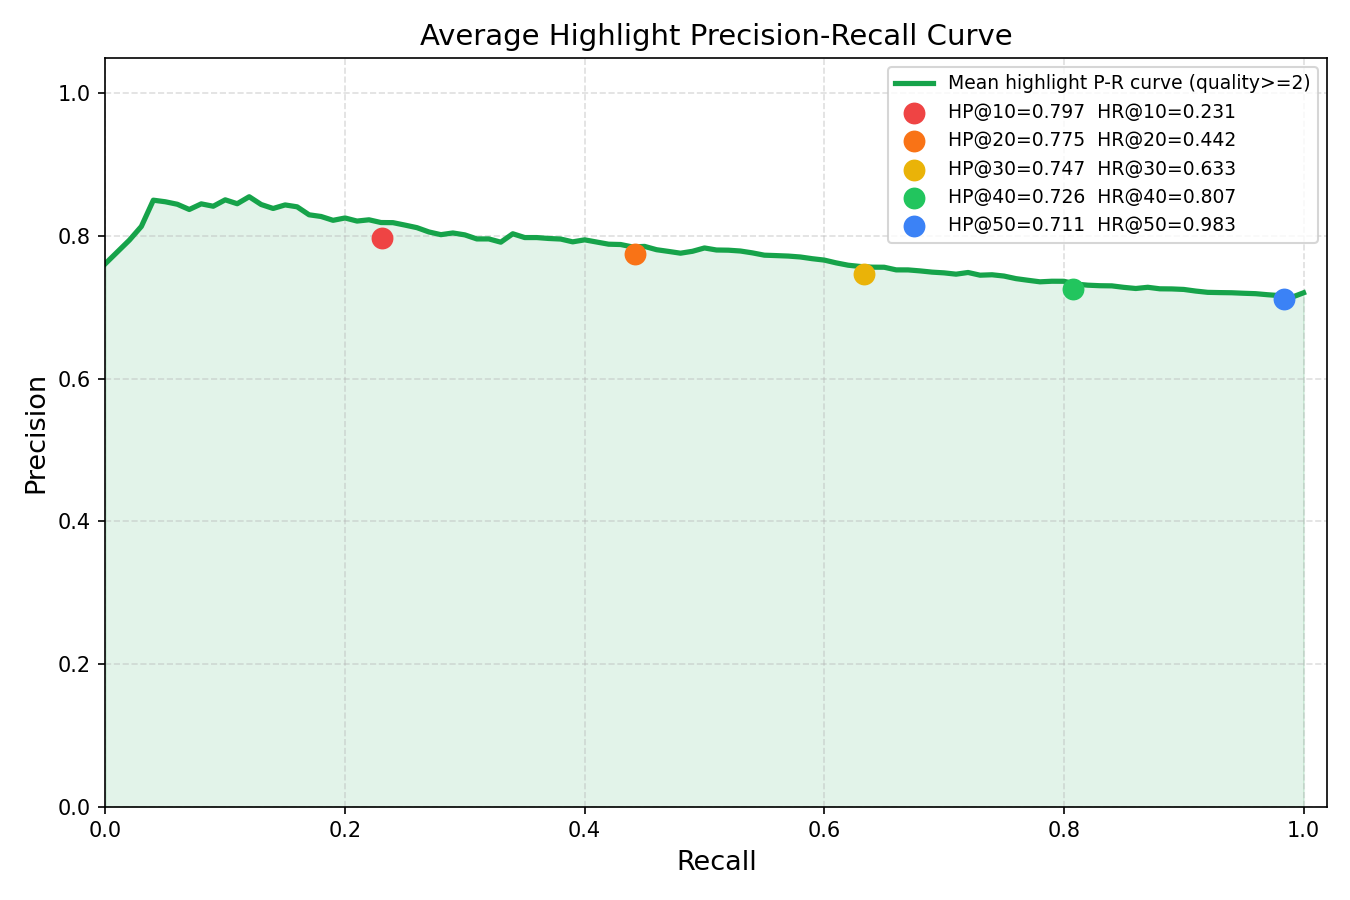
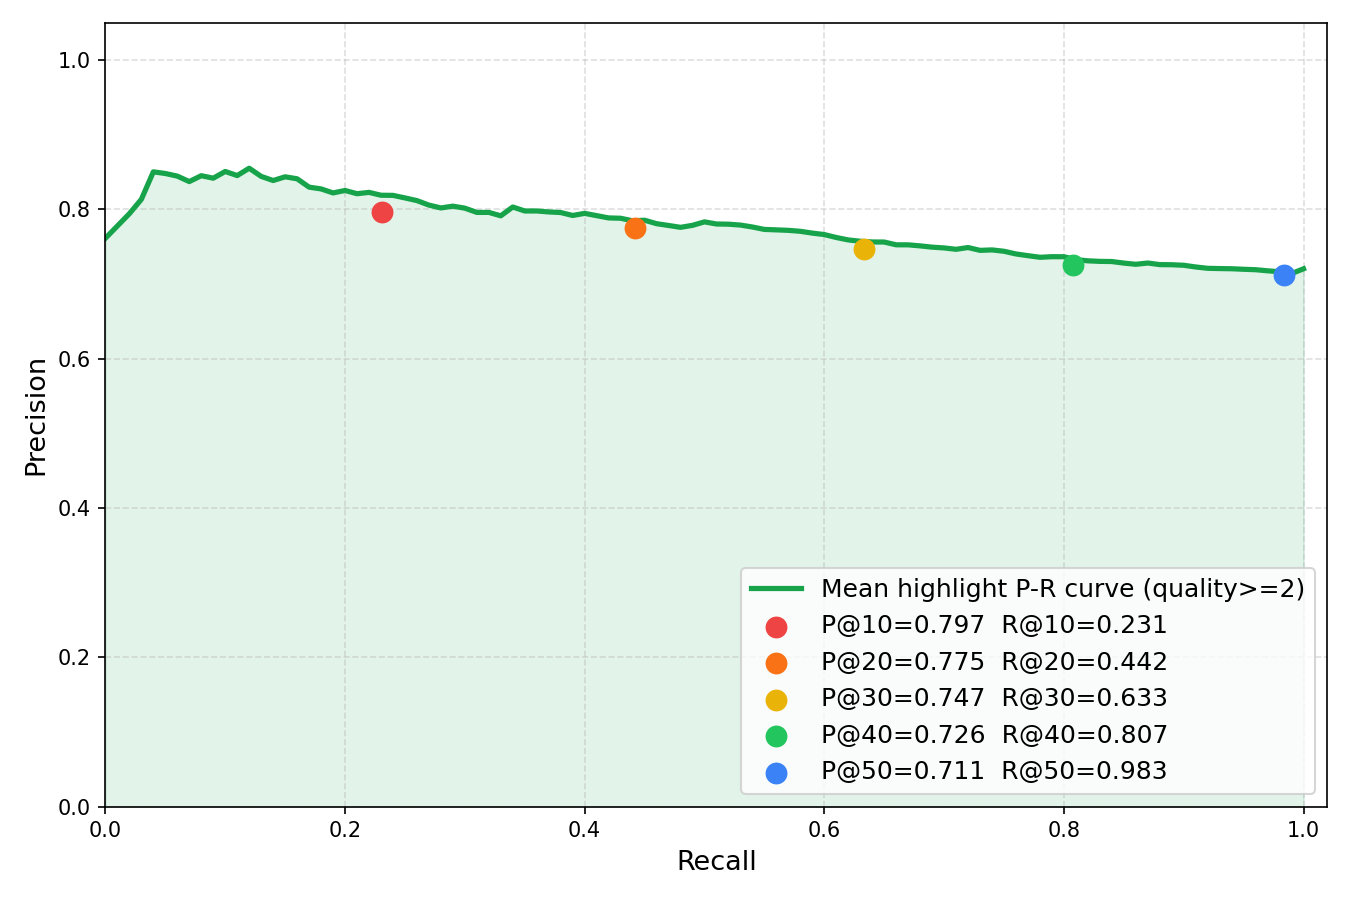
feat: improve pr curve plots for report

diff --git a/evaluation/evaluate_metrics.py b/evaluation/evaluate_metrics.py
@@ -30,12 +30,13 @@ import numpy as np
 # ── Configuration ─────────────────────────────────────────────────────────────
 
 ANNOTATED_FILE = "annotated_results.txt"  # change path if needed
-RELEVANCE_THRESHOLD = 2   # scores >= this are "relevant" for binary metrics
+RELEVANCE_THRESHOLD = 2  # scores >= this are "relevant" for binary metrics
 K_VALUES = [10, 20, 30, 40, 50]
 PER_QUERY_PLOT_DIR = "pr_curves_per_query"
 RES_FOLDER = "results"
 
 # ── 1. Parser ─────────────────────────────────────────────────────────────────
+
 
 def parse_annotated_file(filepath: str) -> dict[str, list[dict]]:
     """
@@ -62,7 +63,7 @@ def parse_annotated_file(filepath: str) -> dict[str, list[dict]]:
         # A query line is followed by a show name, then episode, then an integer (relevance).
         # We identify it by: non-empty line whose content is NOT a digit and
         # whose next non-empty lines form a (show, episode, score) triple.
-        if line and not re.match(r'^\d+$', line):
+        if line and not re.match(r"^\d+$", line):
             # Peek ahead to see if this looks like a query (next valid block has a score)
             j = i + 1
             while j < len(lines) and not lines[j].strip():
@@ -73,7 +74,11 @@ def parse_annotated_file(filepath: str) -> dict[str, list[dict]]:
             j3 = j2 + 1
             score_candidate = lines[j3].strip() if j3 < len(lines) else ""
 
-            if re.match(r'^[0-3]$', score_candidate) and show_candidate and episode_candidate:
+            if (
+                re.match(r"^[0-3]$", score_candidate)
+                and show_candidate
+                and episode_candidate
+            ):
                 # Save previous query
                 if current_query is not None:
                     data[current_query] = current_results
@@ -84,18 +89,20 @@ def parse_annotated_file(filepath: str) -> dict[str, list[dict]]:
                 continue
 
         # Detect a result block: show \n episode \n score
-        if line and current_query is not None and not re.match(r'^\d+$', line):
+        if line and current_query is not None and not re.match(r"^\d+$", line):
             show = line
             i += 1
             episode = lines[i].strip() if i < len(lines) else ""
             i += 1
             score_str = lines[i].strip() if i < len(lines) else ""
-            if re.match(r'^[0-3]$', score_str):
-                current_results.append({
-                    "show": show,
-                    "episode": episode,
-                    "relevance": int(score_str),
-                })
+            if re.match(r"^[0-3]$", score_str):
+                current_results.append(
+                    {
+                        "show": show,
+                        "episode": episode,
+                        "relevance": int(score_str),
+                    }
+                )
                 i += 1
                 continue
 
@@ -109,6 +116,7 @@ def parse_annotated_file(filepath: str) -> dict[str, list[dict]]:
 
 
 # ── 2. Binary metrics: Precision & Recall @K ──────────────────────────────────
+
 
 def is_relevant(score: int) -> bool:
     return score >= RELEVANCE_THRESHOLD
@@ -141,14 +149,14 @@ def compute_precision_recall(data: dict) -> dict:
 
     # For average P-R curve (at every rank position 1..50)
     all_precision_curves = []
-    all_recall_curves    = []
+    all_recall_curves = []
 
     for query, results in data.items():
         n = len(results)
         total_relevant = sum(1 for r in results if is_relevant(r["relevance"]))
 
         p_at_k = {k: precision_at_k(results, k) for k in K_VALUES}
-        r_at_k = {k: recall_at_k(results, k)    for k in K_VALUES}
+        r_at_k = {k: recall_at_k(results, k) for k in K_VALUES}
         per_query[query] = {"precision": p_at_k, "recall": r_at_k}
 
         for k in K_VALUES:
@@ -166,20 +174,21 @@ def compute_precision_recall(data: dict) -> dict:
     averaged = {
         k: {
             "precision": float(np.mean(avg_p[k])),
-            "recall":    float(np.mean(avg_r[k])),
+            "recall": float(np.mean(avg_r[k])),
         }
         for k in K_VALUES
     }
 
     return {
-        "per_query":  per_query,
-        "averaged":   averaged,
-        "p_curves":   all_precision_curves,
-        "r_curves":   all_recall_curves,
+        "per_query": per_query,
+        "averaged": averaged,
+        "p_curves": all_precision_curves,
+        "r_curves": all_recall_curves,
     }
 
 
 # ── 3. Graded metrics: DCG & nDCG @K ──────────────────────────────────────────
+
 
 def dcg_at_k(results: list[dict], k: int) -> float:
     """DCG with log base 2. Uses graded relevance 0-3."""
@@ -189,7 +198,7 @@ def dcg_at_k(results: list[dict], k: int) -> float:
         score += rel / math.log2(i + 1)
     return score
 
-    
+
 def ideal_dcg_at_k(results: list[dict], k: int) -> float:
     """
     IDCG: sort the 50 available results by relevance descending,
@@ -208,11 +217,11 @@ def ndcg_at_k(results: list[dict], k: int) -> float:
 
 def compute_dcg_ndcg(data: dict) -> dict:
     per_query = {}
-    avg_dcg  = {k: [] for k in K_VALUES}
+    avg_dcg = {k: [] for k in K_VALUES}
     avg_ndcg = {k: [] for k in K_VALUES}
 
     for query, results in data.items():
-        d = {k: dcg_at_k(results, k)  for k in K_VALUES}
+        d = {k: dcg_at_k(results, k) for k in K_VALUES}
         n = {k: ndcg_at_k(results, k) for k in K_VALUES}
         per_query[query] = {"DCG": d, "nDCG": n}
         for k in K_VALUES:
@@ -221,7 +230,7 @@ def compute_dcg_ndcg(data: dict) -> dict:
 
     averaged = {
         k: {
-            "DCG":  float(np.mean(avg_dcg[k])),
+            "DCG": float(np.mean(avg_dcg[k])),
             "nDCG": float(np.mean(avg_ndcg[k])),
         }
         for k in K_VALUES
@@ -232,17 +241,20 @@ def compute_dcg_ndcg(data: dict) -> dict:
 
 # ── 4. Plots ──────────────────────────────────────────────────────────────────
 
+
 def _interp_pr(p_curve, r_curve, recall_grid):
     """Interpolate a single P-R curve onto a fixed recall grid."""
     if not r_curve or r_curve[-1] == 0:
         return np.zeros(len(recall_grid))
-    paired   = sorted(zip(r_curve, p_curve))
+    paired = sorted(zip(r_curve, p_curve))
     r_sorted = [x[0] for x in paired]
     p_sorted = [x[1] for x in paired]
     return np.interp(recall_grid, r_sorted, p_sorted)
 
 
-def plot_avg_precision_recall(pr_results: dict, output_path: str = RES_FOLDER+"/pr_curve.png"):
+def plot_avg_precision_recall(
+    pr_results: dict, output_path: str = RES_FOLDER + "/pr_curve.png"
+):
     """Average P-R curve across all queries with P@K / R@K markers."""
     recall_grid = np.linspace(0, 1, 101)
     interp_precisions = [
@@ -252,22 +264,34 @@ def plot_avg_precision_recall(pr_results: dict, output_path: str = RES_FOLDER+"/
     mean_precision = np.mean(interp_precisions, axis=0)
 
     fig, ax = plt.subplots(figsize=(9, 6))
-    ax.plot(recall_grid, mean_precision, color="#2563EB", linewidth=2.5,
-            label="Mean P-R curve (all 60 queries)")
+    ax.plot(
+        recall_grid,
+        mean_precision,
+        color="#2563EB",
+        linewidth=2.5,
+        label="Mean P-R curve (all 60 queries)",
+    )
     ax.fill_between(recall_grid, mean_precision, alpha=0.12, color="#2563EB")
 
     colors = ["#EF4444", "#F97316", "#EAB308", "#22C55E", "#8B5CF6"]
     for k, color in zip(K_VALUES, colors):
         r_k = pr_results["averaged"][k]["recall"]
         p_k = pr_results["averaged"][k]["precision"]
-        ax.scatter(r_k, p_k, color=color, s=90, zorder=5,
-                   label=f"P@{k}={p_k:.3f}  R@{k}={r_k:.3f}")
+        ax.scatter(
+            r_k,
+            p_k,
+            color=color,
+            s=90,
+            zorder=5,
+            label=f"P@{k}={p_k:.3f}  R@{k}={r_k:.3f}",
+        )
 
     ax.set_xlabel("Recall", fontsize=13)
     ax.set_ylabel("Precision", fontsize=13)
-    ax.set_title("Average Precision–Recall Curve\n(60 queries, Spotify 2020 Podcast Dataset)", fontsize=14)
-    ax.set_xlim(0, 1.02); ax.set_ylim(0, 1.05)
-    ax.legend(fontsize=9, loc="upper right")
+    # ax.set_title("Average Precision–Recall Curve\n(60 queries, Spotify 2020 Podcast Dataset)", fontsize=14)
+    ax.set_xlim(0, 1.02)
+    ax.set_ylim(0, 1.05)
+    ax.legend(fontsize=12, loc="lower right")
     ax.grid(True, linestyle="--", alpha=0.4)
     plt.tight_layout()
     plt.savefig(output_path, dpi=150)
@@ -293,22 +317,29 @@ def plot_per_query_precision_recall(data: dict, pr_results: dict, out_dir: str):
         colors = ["#EF4444", "#F97316", "#EAB308", "#22C55E", "#8B5CF6"]
         pq = pr_results["per_query"][query]
         for k, color in zip(K_VALUES, colors):
-            ax.scatter(pq["recall"][k], pq["precision"][k], color=color,
-                       s=70, zorder=5, label=f"@{k}")
+            ax.scatter(
+                pq["recall"][k],
+                pq["precision"][k],
+                color=color,
+                s=70,
+                zorder=5,
+                label=f"@{k}",
+            )
 
         ax.set_xlabel("Recall", fontsize=11)
         ax.set_ylabel("Precision", fontsize=11)
         # Truncate long query for title
         title = query if len(query) <= 55 else query[:52] + "…"
         ax.set_title(f"P-R Curve: {title}", fontsize=10)
-        ax.set_xlim(0, 1.02); ax.set_ylim(0, 1.05)
+        ax.set_xlim(0, 1.02)
+        ax.set_ylim(0, 1.05)
         ax.legend(fontsize=8, loc="upper right", title="Cut-off K")
         ax.grid(True, linestyle="--", alpha=0.4)
         plt.tight_layout()
 
         # Safe filename: replace non-alphanumeric with underscore, truncate
-        safe = re.sub(r'[^\w]+', '_', query)[:60]
-        fpath = os.path.join(out_dir, f"{idx+1:02d}_{safe}.png")
+        safe = re.sub(r"[^\w]+", "_", query)[:60]
+        fpath = os.path.join(out_dir, f"{idx + 1:02d}_{safe}.png")
         plt.savefig(fpath, dpi=120)
         plt.close()
 
@@ -317,8 +348,12 @@ def plot_per_query_precision_recall(data: dict, pr_results: dict, out_dir: str):
 
 # ── 5. CSV export ─────────────────────────────────────────────────────────────
 
-def save_metrics_per_query(pr_results: dict, dcg_results: dict,
-                           output_path: str = RES_FOLDER+"/metrics_per_query.csv"):
+
+def save_metrics_per_query(
+    pr_results: dict,
+    dcg_results: dict,
+    output_path: str = RES_FOLDER + "/metrics_per_query.csv",
+):
     """
     One row per (query, K) with columns:
       query | K | precision | recall | DCG | nDCG
@@ -329,19 +364,24 @@ def save_metrics_per_query(pr_results: dict, dcg_results: dict,
         writer.writerow(["query", "K", "precision", "recall", "DCG", "nDCG"])
         for q in queries:
             for k in K_VALUES:
-                writer.writerow([
-                    q,
-                    k,
-                    round(pr_results["per_query"][q]["precision"][k], 6),
-                    round(pr_results["per_query"][q]["recall"][k],    6),
-                    round(dcg_results["per_query"][q]["DCG"][k],      6),
-                    round(dcg_results["per_query"][q]["nDCG"][k],     6),
-                ])
+                writer.writerow(
+                    [
+                        q,
+                        k,
+                        round(pr_results["per_query"][q]["precision"][k], 6),
+                        round(pr_results["per_query"][q]["recall"][k], 6),
+                        round(dcg_results["per_query"][q]["DCG"][k], 6),
+                        round(dcg_results["per_query"][q]["nDCG"][k], 6),
+                    ]
+                )
     print(f"  Per-query metrics  → '{output_path}'")
 
 
-def save_metrics_averaged(pr_results: dict, dcg_results: dict,
-                          output_path: str = RES_FOLDER+"/metrics_averaged.csv"):
+def save_metrics_averaged(
+    pr_results: dict,
+    dcg_results: dict,
+    output_path: str = RES_FOLDER + "/metrics_averaged.csv",
+):
     """
     One row per K with macro-averaged metrics.
     """
@@ -349,18 +389,23 @@ def save_metrics_averaged(pr_results: dict, dcg_results: dict,
         writer = csv.writer(f)
         writer.writerow(["K", "avg_precision", "avg_recall", "avg_DCG", "avg_nDCG"])
         for k in K_VALUES:
-            writer.writerow([
-                k,
-                round(pr_results["averaged"][k]["precision"], 6),
-                round(pr_results["averaged"][k]["recall"],    6),
-                round(dcg_results["averaged"][k]["DCG"],      6),
-                round(dcg_results["averaged"][k]["nDCG"],     6),
-            ])
+            writer.writerow(
+                [
+                    k,
+                    round(pr_results["averaged"][k]["precision"], 6),
+                    round(pr_results["averaged"][k]["recall"], 6),
+                    round(dcg_results["averaged"][k]["DCG"], 6),
+                    round(dcg_results["averaged"][k]["nDCG"], 6),
+                ]
+            )
     print(f"  Averaged metrics   → '{output_path}'")
 
 
-def save_pr_curve_per_query(data: dict, pr_results: dict,
-                            output_path: str = RES_FOLDER+"/pr_curve_per_query.csv"):
+def save_pr_curve_per_query(
+    data: dict,
+    pr_results: dict,
+    output_path: str = RES_FOLDER + "/pr_curve_per_query.csv",
+):
     """
     Full precision-recall curve at every rank position (1-50) per query.
     Columns: query | rank | precision | recall
@@ -379,6 +424,7 @@ def save_pr_curve_per_query(data: dict, pr_results: dict,
 
 # ── 6. Pretty print summary ───────────────────────────────────────────────────
 
+
 def print_summary(pr_results: dict, dcg_results: dict):
     print("\n" + "=" * 62)
     print("  RETRIEVAL EVALUATION SUMMARY")
@@ -394,7 +440,9 @@ def print_summary(pr_results: dict, dcg_results: dict):
         print(f"{k:>6} {p:>12.4f} {r:>12.4f} {d:>12.4f} {n:>12.4f}")
 
     print("\nPer-query nDCG@10 (sorted desc):")
-    ndcg10 = {q: dcg_results["per_query"][q]["nDCG"][10] for q in dcg_results["per_query"]}
+    ndcg10 = {
+        q: dcg_results["per_query"][q]["nDCG"][10] for q in dcg_results["per_query"]
+    }
     for q, v in sorted(ndcg10.items(), key=lambda x: x[1], reverse=True):
         print(f"  {v:.4f}  {q}")
 
@@ -415,10 +463,14 @@ if __name__ == "__main__":
     print_summary(pr_results, dcg_results)
 
     print("\nSaving CSVs …")
-    save_metrics_per_query(pr_results, dcg_results, RES_FOLDER+"/metrics_per_query.csv")
-    save_metrics_averaged(pr_results, dcg_results,RES_FOLDER+"/metrics_averaged.csv")
-    save_pr_curve_per_query(data, pr_results,RES_FOLDER+"/pr_curve_per_query.csv")
+    save_metrics_per_query(
+        pr_results, dcg_results, RES_FOLDER + "/metrics_per_query.csv"
+    )
+    save_metrics_averaged(pr_results, dcg_results, RES_FOLDER + "/metrics_averaged.csv")
+    save_pr_curve_per_query(data, pr_results, RES_FOLDER + "/pr_curve_per_query.csv")
 
     print("\nPlotting …")
-    plot_avg_precision_recall(pr_results, output_path=RES_FOLDER+"/pr_curve.png")
-    plot_per_query_precision_recall(data, pr_results, out_dir=RES_FOLDER+"/"+PER_QUERY_PLOT_DIR)
+    plot_avg_precision_recall(pr_results, output_path=RES_FOLDER + "/pr_curve.png")
+    plot_per_query_precision_recall(
+        data, pr_results, out_dir=RES_FOLDER + "/" + PER_QUERY_PLOT_DIR
+    )
